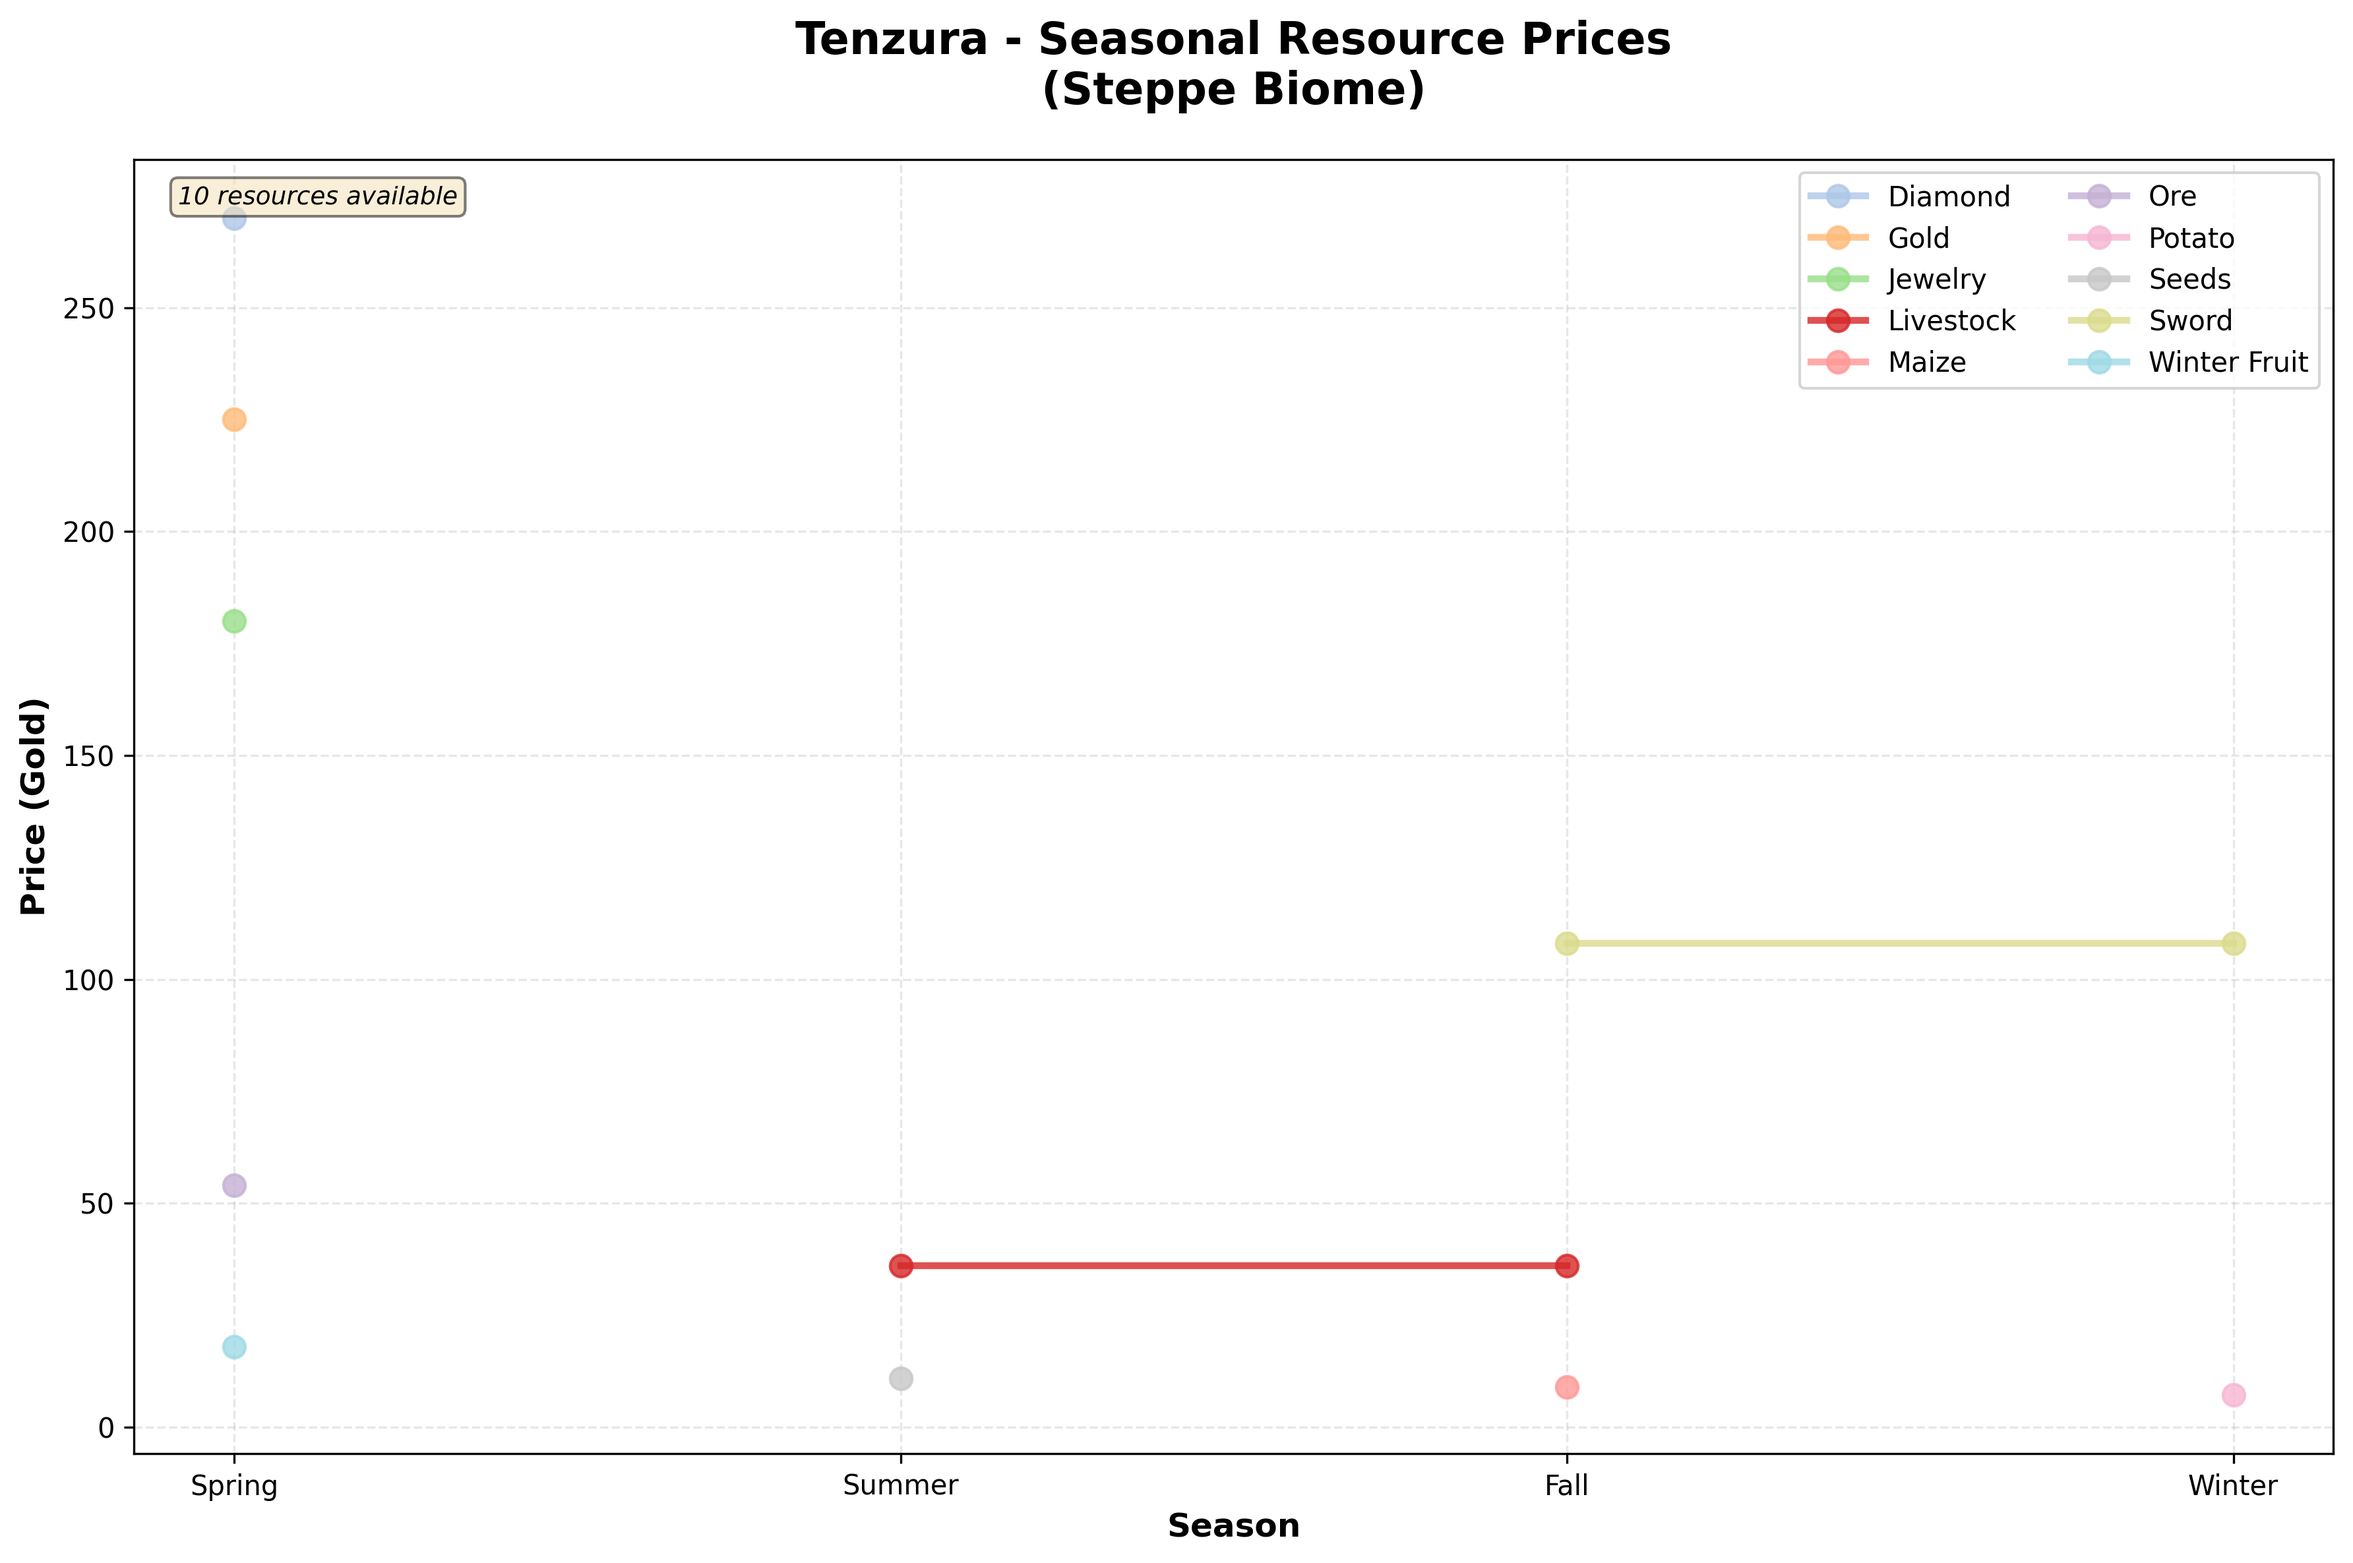
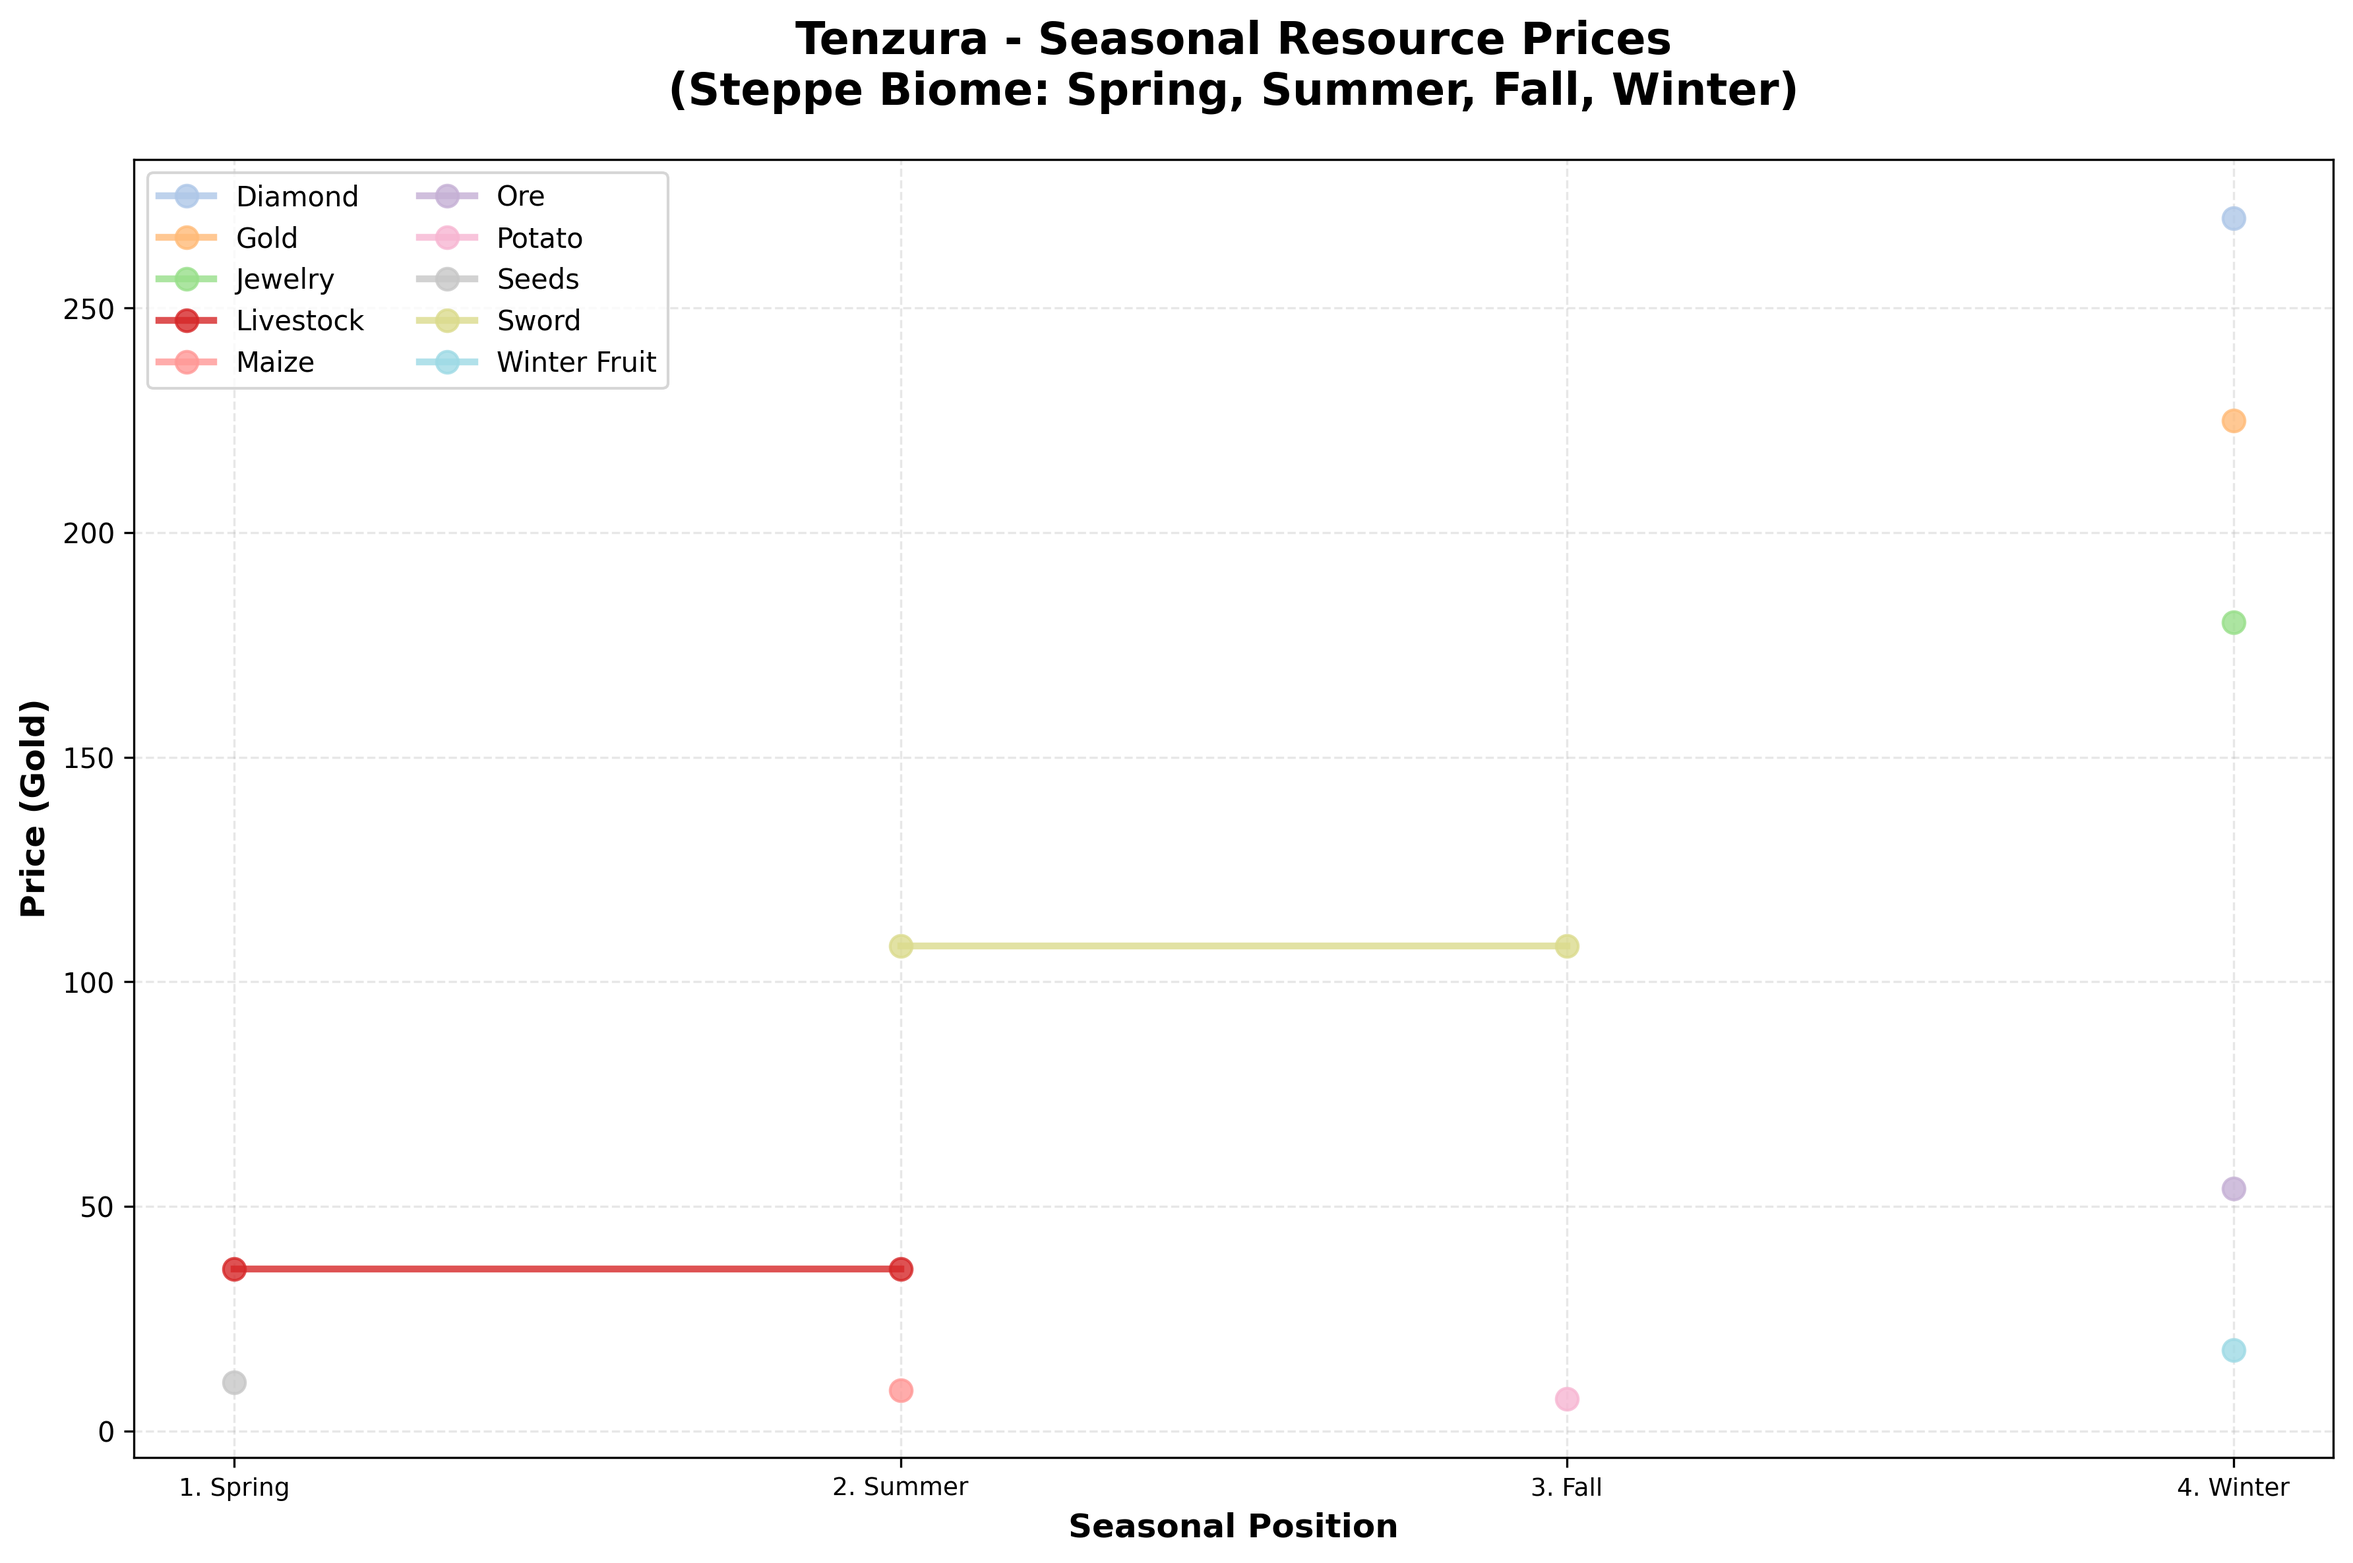
adding local seasons to analysis script

diff --git a/generate_resource_charts.py b/generate_resource_charts.py
@@ -48,6 +48,12 @@ def load_resources(filepath: str = 'data/resources.json') -> Dict:
         return json.load(f)
 
 
+def load_biome_seasons(filepath: str = 'data/biome_seasons.json') -> Dict:
+    """Load biome seasonal sequences from JSON file"""
+    with open(filepath, 'r') as f:
+        return json.load(f)
+
+
 def calculate_price(resource: Dict, season: str = '', events: List[str] = []) -> float:
     """Calculate resource price with season and event modifiers"""
     base_price = resource['base_price']
@@ -364,8 +370,8 @@ def chart_5_biome_seasonal_timeline(resources: Dict, output_dir: Path):
     print(f"✓ Saved: {output_dir / '5_biome_seasonal_timeline.png'}")
 
 
-def chart_6_city_seasonal_prices(resources: Dict, output_dir: Path):
-    """Generate seasonal price charts for each city"""
+def chart_6_city_seasonal_prices(resources: Dict, biome_seasons: Dict, output_dir: Path):
+    """Generate seasonal price charts for each city using biome-specific seasonal sequences"""
     print("Generating Chart 6: City-Specific Seasonal Price Charts...")
     
     # Define cities and their biomes (from map_scene.tscn)
@@ -384,6 +390,12 @@ def chart_6_city_seasonal_prices(resources: Dict, output_dir: Path):
     
     for city_name, biome in cities.items():
         print(f"  Generating chart for {city_name} ({biome})...")
+        
+        # Get the seasonal sequence for this biome
+        biome_data = biome_seasons.get(biome, {})
+        seasonal_sequence = biome_data.get('sequence', ['spring', 'summer', 'fall', 'winter'])
+        
+        print(f"    Using seasonal sequence: {seasonal_sequence}")
         
         # Find resources available in this city (those with this biome in local_biomes)
         available_resources = {}
@@ -407,32 +419,35 @@ def chart_6_city_seasonal_prices(resources: Dict, output_dir: Path):
             if not favored_seasons:
                 continue
             
-            # Create lists for seasons and prices (only for favored seasons)
-            plot_seasons = []
+            # Create lists for positions and prices (only for positions where season is favored)
+            plot_positions = []
             plot_prices = []
+            plot_labels = []
             
-            for season in SEASONS:
+            for pos, season in enumerate(seasonal_sequence):
                 if season in favored_seasons:
                     price = calculate_price(res_data, season, [])  # No events
-                    plot_seasons.append(season)
+                    plot_positions.append(pos)
                     plot_prices.append(price)
+                    plot_labels.append(season.title())
             
             # Only plot if we have data points
-            if plot_seasons:
-                ax.plot(plot_seasons, plot_prices, marker='o', linewidth=2.5,
+            if plot_positions:
+                ax.plot(plot_positions, plot_prices, marker='o', linewidth=2.5,
                        color=resource_colors[res_name], label=res_name.replace('-', ' ').title(),
                        markersize=8, alpha=0.8)
         
         # Styling
-        ax.set_xlabel('Season', fontsize=12, fontweight='bold')
+        ax.set_xlabel('Seasonal Position', fontsize=12, fontweight='bold')
         ax.set_ylabel('Price (Gold)', fontsize=12, fontweight='bold')
-        ax.set_title(f'{city_name} - Seasonal Resource Prices\n({biome.title()} Biome)',
+        ax.set_title(f'{city_name} - Seasonal Resource Prices\n({biome.title()} Biome: {", ".join([s.title() for s in seasonal_sequence])})',
                     fontsize=16, fontweight='bold', pad=20)
         ax.grid(True, alpha=0.3, linestyle='--')
         
-        # Format x-axis
-        ax.set_xticks(range(len(SEASONS)))
-        ax.set_xticklabels([s.title() for s in SEASONS])
+        # Format x-axis with biome-specific seasons
+        ax.set_xticks(range(len(seasonal_sequence)))
+        ax.set_xticklabels([f"{i+1}. {s.title()}" for i, s in enumerate(seasonal_sequence)], 
+                          fontsize=9)
         
         # Legend - place outside plot area if many resources
         num_resources = len(available_resources)
@@ -440,11 +455,6 @@ def chart_6_city_seasonal_prices(resources: Dict, output_dir: Path):
             ax.legend(bbox_to_anchor=(1.05, 1), loc='upper left', fontsize=9, ncol=2)
         else:
             ax.legend(loc='best', fontsize=10, ncol=1 if num_resources <= 8 else 2)
-        
-        # Add note about biome
-        ax.text(0.02, 0.98, f'{len(available_resources)} resources available',
-                transform=ax.transAxes, fontsize=9, style='italic', va='top',
-                bbox=dict(boxstyle='round', facecolor='wheat', alpha=0.5))
         
         plt.tight_layout()
         
@@ -469,12 +479,23 @@ def main():
     # Load resources
     try:
         resources = load_resources()
-        print(f"Loaded {len(resources)} resources\n")
+        print(f"Loaded {len(resources)} resources")
     except FileNotFoundError:
         print("❌ Error: data/resources.json not found!")
         return
     except json.JSONDecodeError:
         print("❌ Error: Invalid JSON in resources.json!")
+        return
+    
+    # Load biome seasonal sequences
+    try:
+        biome_seasons = load_biome_seasons()
+        print(f"Loaded seasonal sequences for {len(biome_seasons)} biomes\n")
+    except FileNotFoundError:
+        print("❌ Error: data/biome_seasons.json not found!")
+        return
+    except json.JSONDecodeError:
+        print("❌ Error: Invalid JSON in biome_seasons.json!")
         return
     
     # Generate all charts
@@ -484,7 +505,7 @@ def main():
         chart_3_volatility_analysis(resources, output_dir)
         chart_4_event_impact(resources, output_dir)
         # chart_5_biome_seasonal_timeline(resources, output_dir)  # Removed per user request
-        chart_6_city_seasonal_prices(resources, output_dir)
+        chart_6_city_seasonal_prices(resources, biome_seasons, output_dir)
         
         print("\n" + "=" * 60)
         print("✓ All visualizations generated successfully!")
